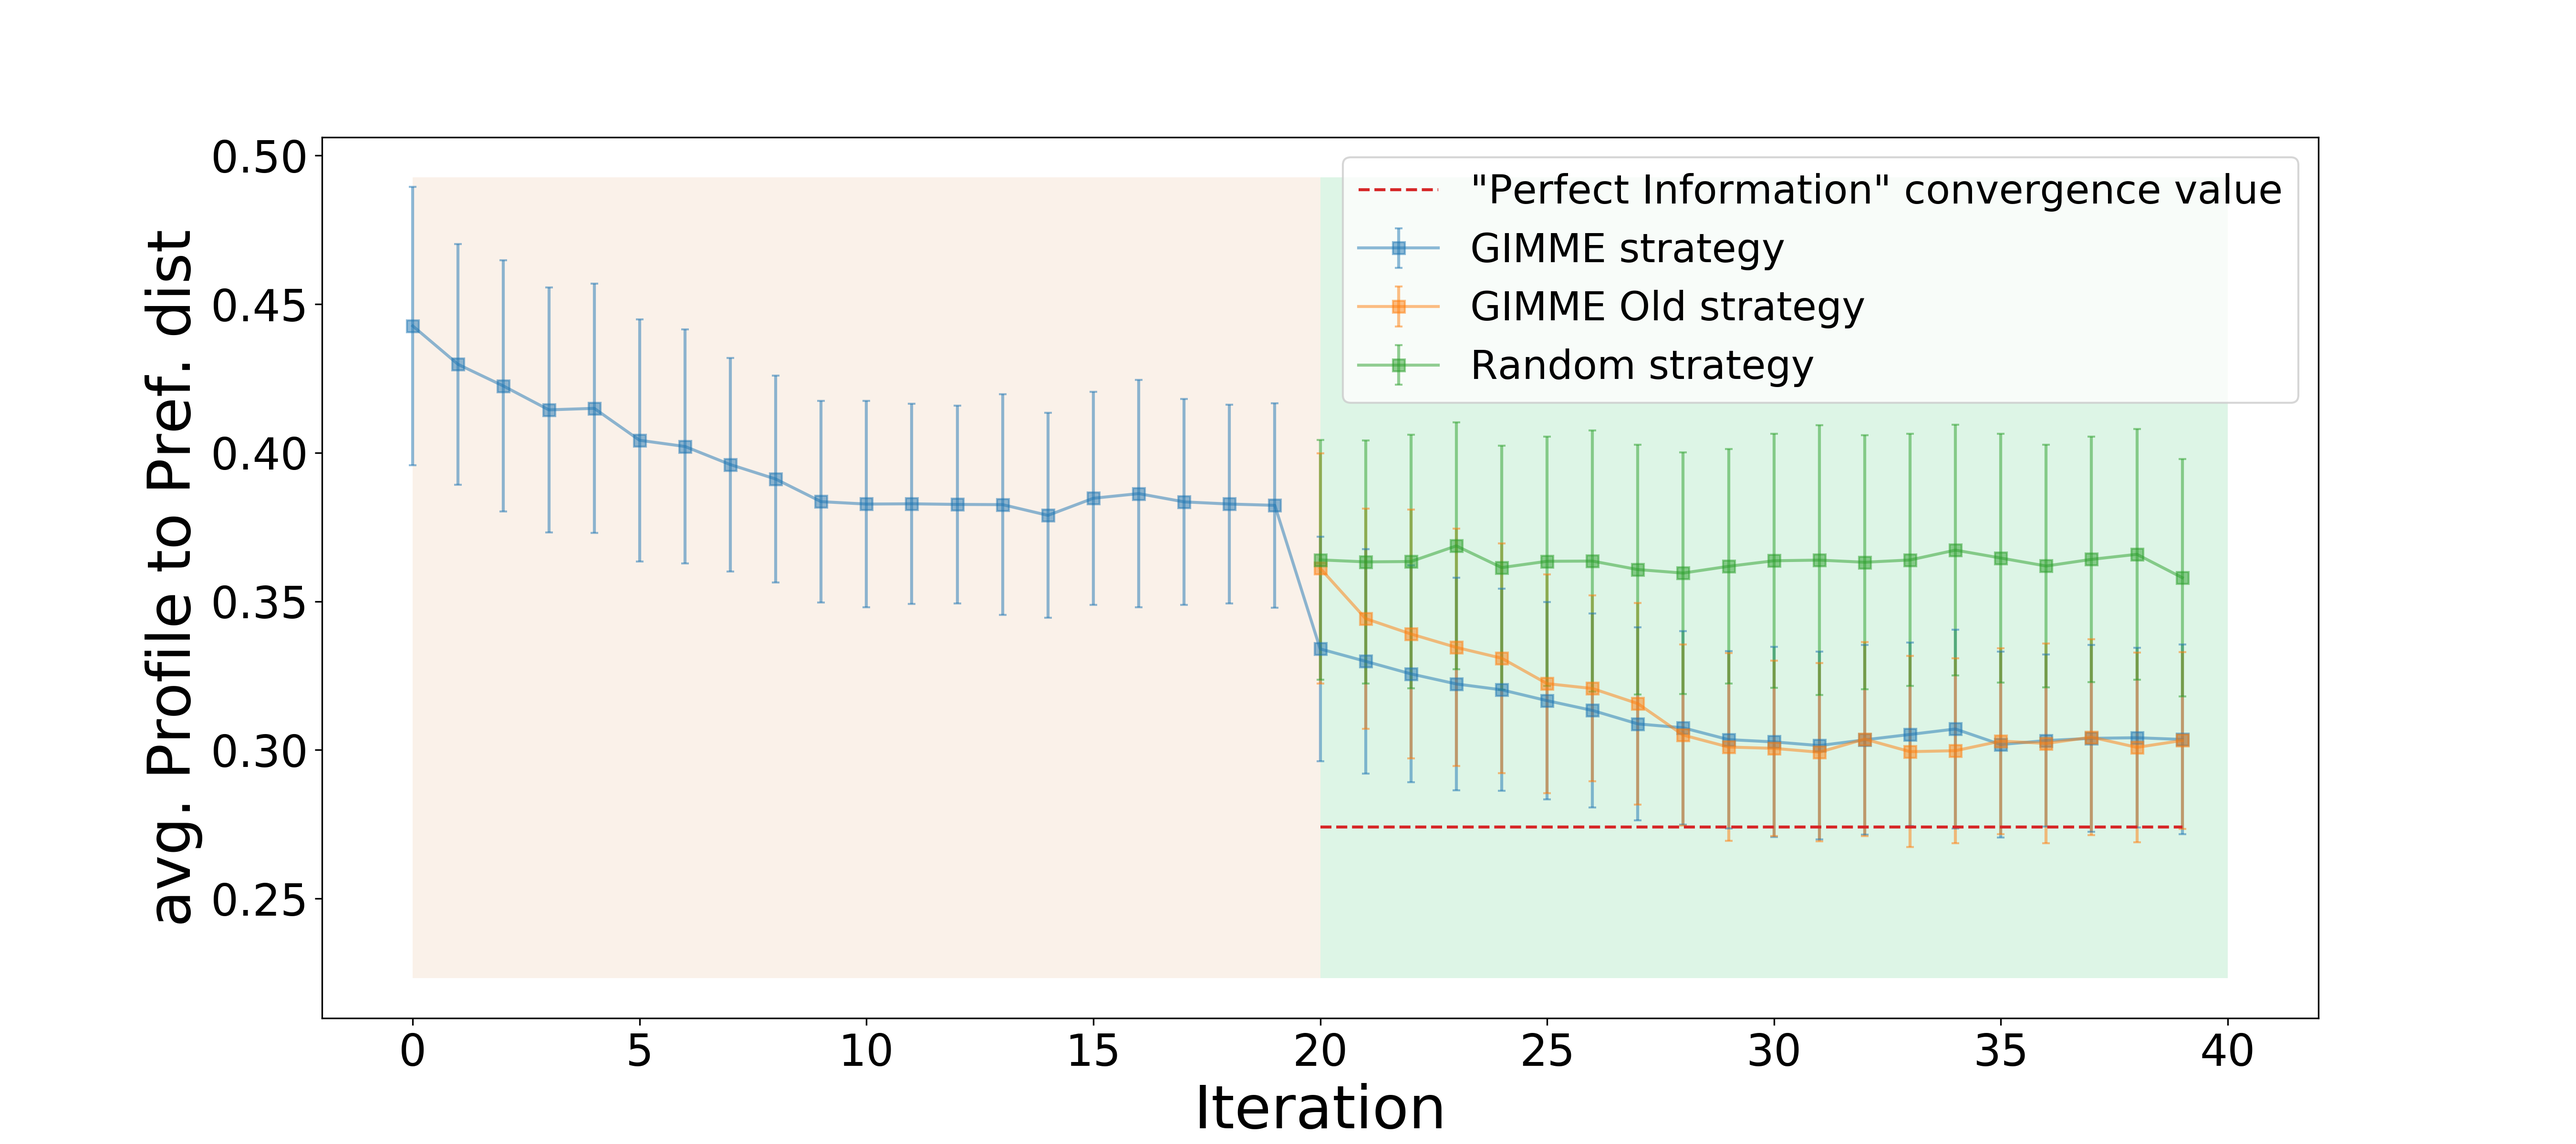
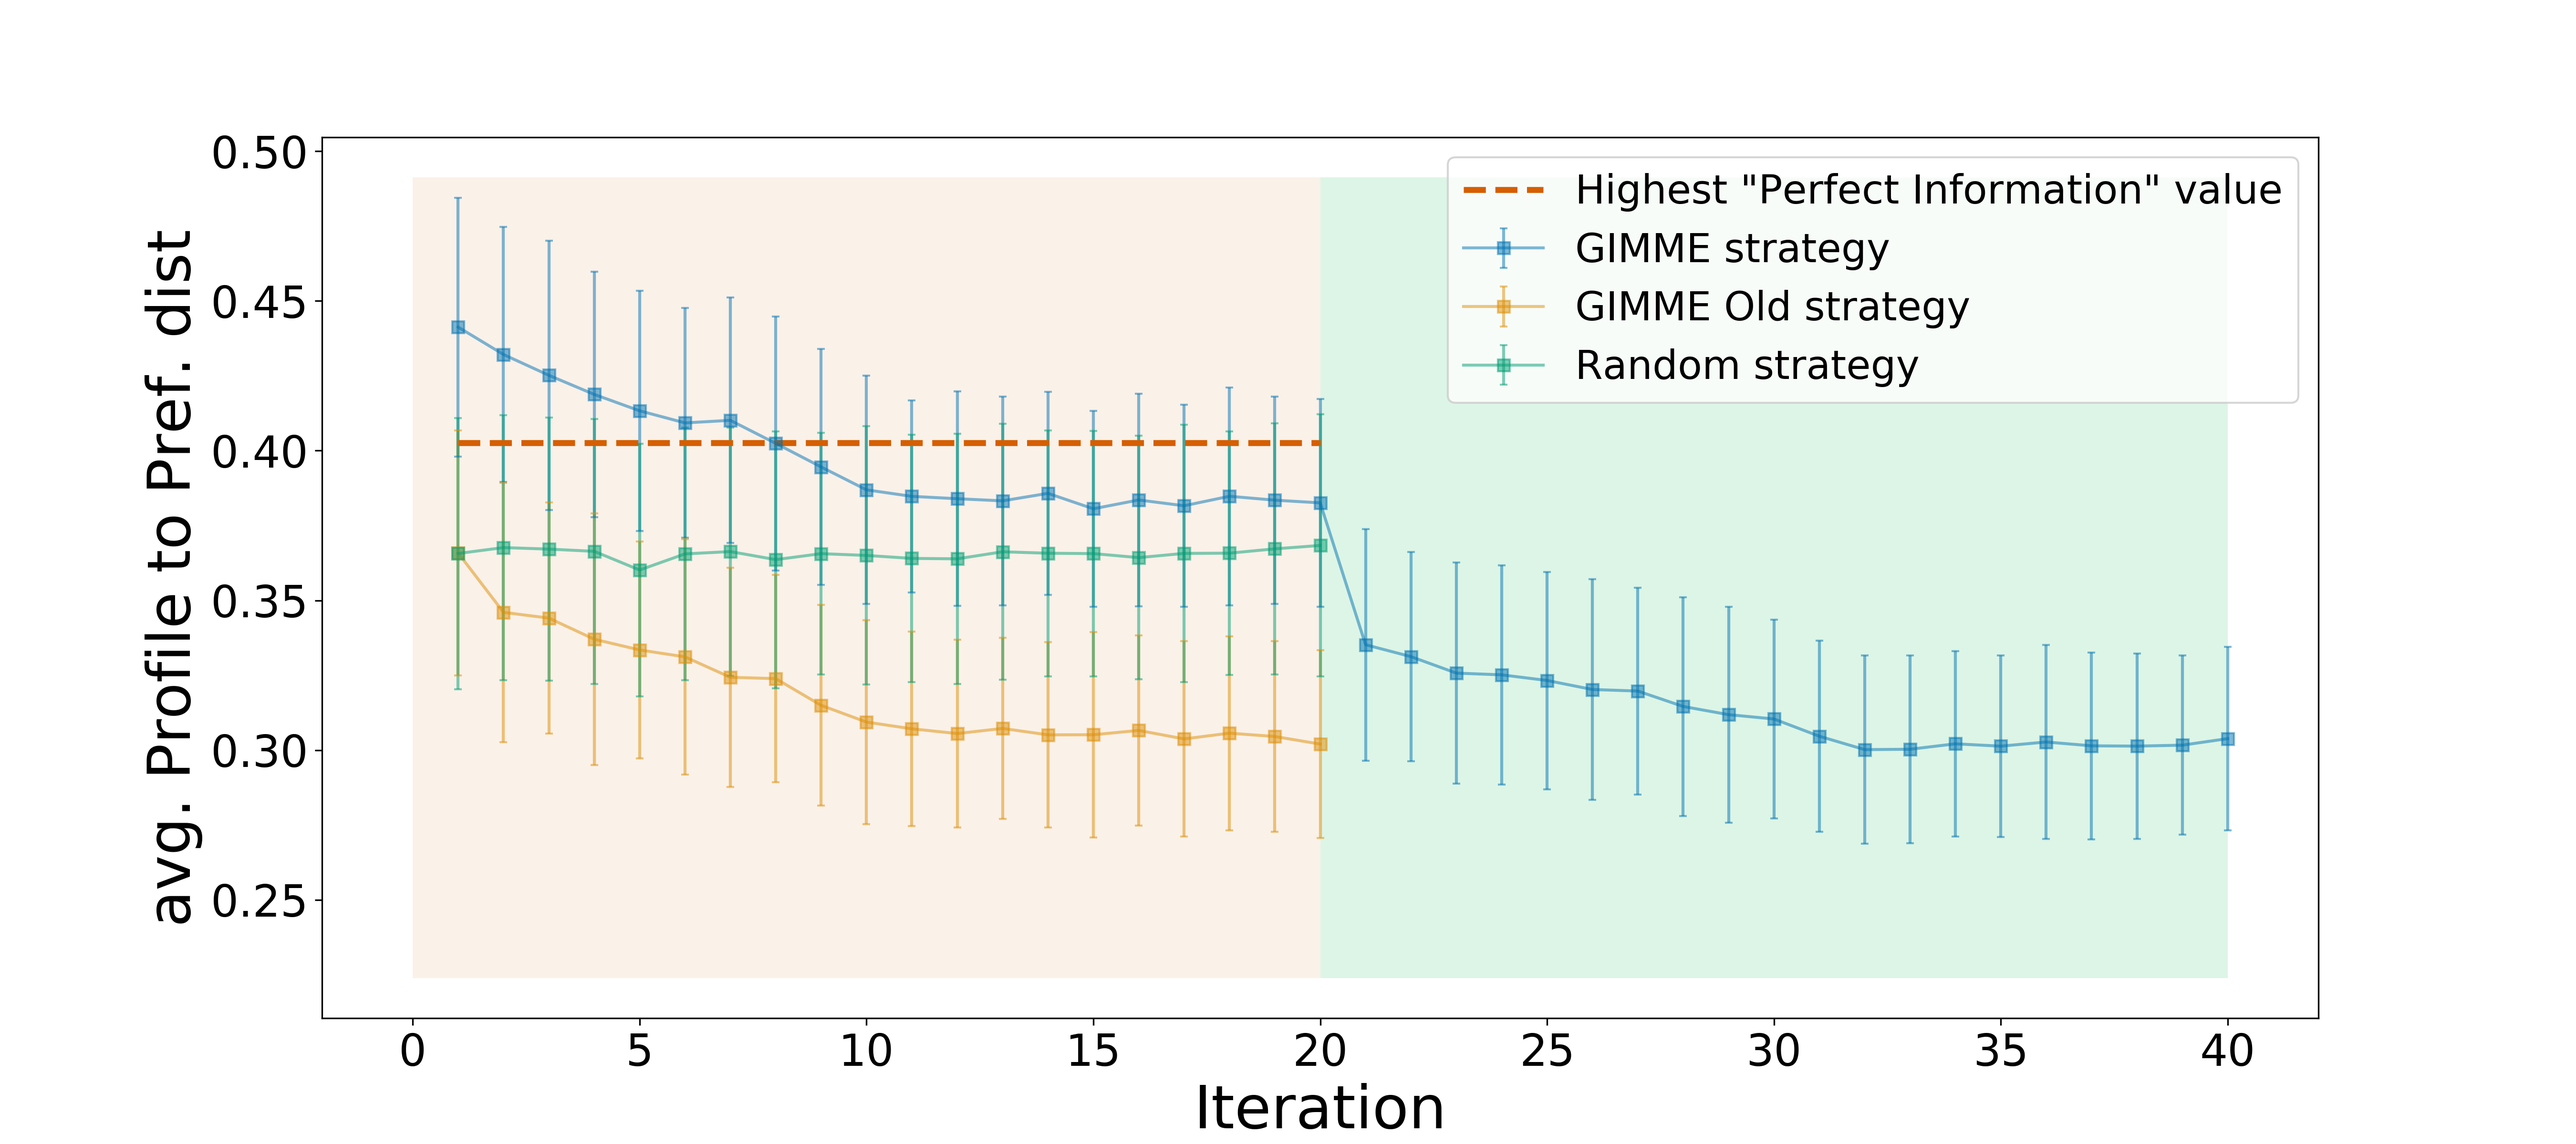
removed unused code and fixed plots only code.

diff --git a/examples/simulations.py b/examples/simulations.py
@@ -283,73 +283,15 @@ optimalExecTime = 0.0
 
 
 # ----------------------- [Execute Algorithms] ----------------------------
-executeSimulations(maxNumTrainingIterations, 0, numRealIterations, maxNumTrainingIterations, playerBridge, taskBridge, adaptationGIMME, GIMMEAbilityMeans, GIMMEAbilitySTDev, GIMMEEngagementMeans, GIMMEEngagementSTDev, GIMMEProfDiffMeans, GIMMEProfDiffSTDev, GIMMEExecTime, True,  2, 4)
+executeSimulations(maxNumTrainingIterations, 0, numRealIterations, maxNumTrainingIterations, playerBridge, taskBridge, adaptationGIMME, GIMMEAbilityMeans, GIMMEAbilitySTDev, GIMMEEngagementMeans, GIMMEEngagementSTDev, GIMMEProfDiffMeans, GIMMEProfDiffSTDev, GIMMEExecTime, True,  1, 4)
 adaptationGIMME.setName("GIMMEOld")
 executeSimulations(0, 0, numRealIterations, maxNumTrainingIterations, playerBridge, taskBridge, adaptationGIMME, GIMMEOldAbilityMeans, GIMMEOldAbilitySTDev, GIMMEOldEngagementMeans, GIMMEOldEngagementSTDev, GIMMEOldProfDiffMeans, GIMMEOldProfDiffSTDev, GIMMEOldExecTime, True,  2, 4)
 executeSimulations(maxNumTrainingIterations, 0, numRealIterations, maxNumTrainingIterations, playerBridge, taskBridge, adaptationOptimal, optimalAbilityMeans, optimalAbilitySTDev, optimalEngagementMeans, optimalEngagementSTDev, optimalProfDiffMeans, optimalProfDiffSTDev, optimalExecTime, True, 3, 4)
-executeSimulations(0, 0, numRealIterations, maxNumTrainingIterations, playerBridge, taskBridge, adaptationRandom, randomAbilityMeans, randomAbilitySTDev, randomEngagementMeans, randomEngagementSTDev, randomProfDiffMeans, randomProfDiffSTDev, randomExecTime, True,  1, 4)
+executeSimulations(0, 0, numRealIterations, maxNumTrainingIterations, playerBridge, taskBridge, adaptationRandom, randomAbilityMeans, randomAbilitySTDev, randomEngagementMeans, randomEngagementSTDev, randomProfDiffMeans, randomProfDiffSTDev, randomExecTime, True,  4, 4)
 # executeSimulations(maxNumTrainingIterations,numRealIterations, playerBridge, taskBridge, adaptationGIMMEEv, GIMMEEvAbilities, GIMMEEvEngagements, GIMMEEvPrefProfDiff, GIMMEEvGroupSizeFreqs, GIMMEEvConfigsSizeFreqs, GIMMEExecTime, "GIMME", "adaptationGIMME", True,  3, 4)
 # executeSimulations(maxNumTrainingIterations,numRealIterations, playerBridgeGrid, taskBridge, adaptationGIMMEGrid, GIMMEGridAbilityMean, GIMMEGridAbilitySTDev, GIMMEGridEngagementMean, GIMMEGridEngagementSTDev, GIMMEGridProfDiffMean, GIMMEGridProfDiffSTDev, GIMMEGridExecTime, True,  4, 4)
 
 
 
-# ----------------------- [Generate Plots] --------------------------------
-timesteps=[i for i in range(maxNumTrainingIterations + numRealIterations)]
-timestepsReal=[i+maxNumTrainingIterations for i in range(numRealIterations)]
-convValue=[1.0 for i in range(maxNumTrainingIterations + numRealIterations)]
-empConvValue=[optimalAbilityMeans[-1] for i in range(maxNumTrainingIterations + numRealIterations)]
-totalMin = min(min(randomAbilityMeans[maxNumTrainingIterations:]),min(GIMMEAbilityMeans),min(GIMMEOldAbilityMeans[maxNumTrainingIterations:]),min(optimalAbilityMeans[maxNumTrainingIterations:]))
-totalMax = max(max(randomAbilityMeans[maxNumTrainingIterations:]),max(GIMMEAbilityMeans),max(GIMMEOldAbilityMeans[maxNumTrainingIterations:]),max(optimalAbilityMeans[maxNumTrainingIterations:]))
-
-plt.rcParams.update({'font.size': 22})
-
-fig = plt.figure(num=None, figsize=(18, 8), dpi=100, facecolor='w', edgecolor='k')
-ax = fig.add_subplot(111)
-c1 = collections.BrokenBarHCollection([(0,maxNumTrainingIterations)], (totalMin-0.05,(totalMax-totalMin)+0.1), facecolor='#f7e4d4', alpha=0.5)
-c2 = collections.BrokenBarHCollection([(maxNumTrainingIterations,numRealIterations)], (totalMin-0.05,(totalMax-totalMin)+0.1), facecolor='#bdedcf', alpha=0.5)
-ax.add_collection(c1)
-ax.add_collection(c2)
-
-
-plt.errorbar(timesteps, GIMMEAbilityMeans, GIMMEAbilitySTDev, marker='s', capsize=2.0, alpha=0.5, label="GIMME strategy")
-plt.errorbar(timestepsReal, GIMMEOldAbilityMeans[maxNumTrainingIterations:], GIMMEOldAbilitySTDev[maxNumTrainingIterations:], marker='s', capsize=2.0, alpha=0.5, label="GIMME Old strategy")
-# plt.errorbar(timesteps, GIMMEGridAbilityMean, GIMMEGridAbilitySTDev, marker='s', capsize=2.0, alpha=0.5, label="GIMME Grid strategy")
-# plt.plot(timesteps, GIMMEEvAbilities, label="GIMME Ev strategy")
-plt.errorbar(timestepsReal, randomAbilityMeans[maxNumTrainingIterations:], randomAbilitySTDev[maxNumTrainingIterations:], marker='s', capsize=2.0, alpha=0.5, label="Random strategy")
-# plt.errorbar(timesteps, optimalAbilityMeans, optimalAbilitySTDev, marker='s', capsize=2.0, alpha=0.5, label="\"Perfect Information\" strategy")
-plt.plot(timestepsReal, empConvValue[maxNumTrainingIterations:], linestyle= "--", label="\"Perfect Information\" convergence value")
-plt.xlabel("Iteration", fontsize=30)
-plt.ylabel("avg. Ability Increase", fontsize=30)
-plt.legend(loc='best', fontsize=20)
-
-plt.savefig(newpath+'/charts/simulationsResultsAbility.png', dpi=300, figsize=(6,20))
-# plt.show()
-
-
-
-empConvValue=[optimalProfDiffMeans[-1] for i in range(maxNumTrainingIterations + numRealIterations)]
-
-fig = plt.figure(num=None, figsize=(18, 8), dpi=100, facecolor='w', edgecolor='k')
-ax = fig.add_subplot(111)
-totalMin = min(min(randomProfDiffMeans[maxNumTrainingIterations:]),min(GIMMEProfDiffMeans),min(GIMMEOldProfDiffMeans[maxNumTrainingIterations:]),min(optimalProfDiffMeans[maxNumTrainingIterations:]))
-totalMax = max(max(randomProfDiffMeans[maxNumTrainingIterations:]),max(GIMMEProfDiffMeans),max(GIMMEOldProfDiffMeans[maxNumTrainingIterations:]),max(optimalProfDiffMeans[maxNumTrainingIterations:]))
-c1 = collections.BrokenBarHCollection([(0,maxNumTrainingIterations)], (totalMin-0.05,(totalMax-totalMin)+0.1), facecolor='#f7e4d4', alpha=0.5)
-c2 = collections.BrokenBarHCollection([(maxNumTrainingIterations,numRealIterations)], (totalMin-0.05,(totalMax-totalMin)+0.1), facecolor='#bdedcf', alpha=0.5)
-ax.add_collection(c1)
-ax.add_collection(c2)
-
-
-plt.errorbar(timesteps, GIMMEProfDiffMeans, GIMMEProfDiffSTDev, marker='s', capsize=2.0, alpha=0.5, label="GIMME strategy")
-plt.errorbar(timestepsReal, GIMMEOldProfDiffMeans[maxNumTrainingIterations:], GIMMEOldProfDiffSTDev[maxNumTrainingIterations:], marker='s', capsize=2.0, alpha=0.5, label="GIMME Old strategy")
-# plt.errorbar(timesteps, GIMMEGridProfDiffMean, GIMMEGridProfDiffSTDev, marker='s', capsize=2.0, alpha=0.5, label="GIMME Grid strategy")
-plt.errorbar(timestepsReal, randomProfDiffMeans[maxNumTrainingIterations:], randomProfDiffSTDev[maxNumTrainingIterations:], marker='s', capsize=2.0, alpha=0.5, label="Random strategy")
-plt.plot(timestepsReal, empConvValue[maxNumTrainingIterations:], linestyle= "--", label="\"Perfect Information\" convergence value")
-plt.xlabel("Iteration", fontsize=30)
-plt.ylabel("avg. Profile to Pref. dist", fontsize=30)
-plt.legend(loc='best', fontsize=20)
-
-plt.savefig(newpath+'/charts/simulationsResultsProfileDist.png', dpi=300, figsize=(6,20))
-# plt.show()
-
-
-
+print("Done!                        ", end="\r")
+		

diff --git a/examples/plotsOnly.py b/examples/plotsOnly.py
@@ -41,19 +41,20 @@ sns.set_palette(sns.color_palette("colorblind"))
 timesteps=[i+1 for i in range(maxNumTrainingIterations + numRealIterations)]
 timestepsReal=[i+1 for i in range(numRealIterations)]
 convValue=[1.0 for i in range(maxNumTrainingIterations + numRealIterations)]
-empConvValue=[optimalAbilityMeans[-1] for i in range(maxNumTrainingIterations + numRealIterations)]
+empHighestValue=[max(optimalAbilityMeans) for i in range(maxNumTrainingIterations + numRealIterations)]
 totalMin = min(min(randomAbilityMeans[maxNumTrainingIterations:]),min(GIMMEAbilityMeans),min(GIMMEOldAbilityMeans[maxNumTrainingIterations:]),min(optimalAbilityMeans[maxNumTrainingIterations:]))
 totalMax = max(max(randomAbilityMeans[maxNumTrainingIterations:]),max(GIMMEAbilityMeans),max(GIMMEOldAbilityMeans[maxNumTrainingIterations:]),max(optimalAbilityMeans[maxNumTrainingIterations:]))
 
 plt.rcParams.update({'font.size': 22})
 
-fig = plt.figure(num=None, figsize=(18, 8), dpi=100, facecolor='w', edgecolor='k')
+fig = plt.figure(num=None, figsize=(20, 10), dpi=100, facecolor='w', edgecolor='k')
 ax = fig.add_subplot(111)
 c1 = collections.BrokenBarHCollection([(0,maxNumTrainingIterations)], (totalMin,(totalMax-totalMin)), facecolor="white", alpha=0.5)
 # c2 = collections.BrokenBarHCollection([(maxNumTrainingIterations,numRealIterations)], (totalMin-0.05,(totalMax-totalMin)+0.1), facecolor='#bdedcf', alpha=0.5)
 ax.add_collection(c1)
 # ax.add_collection(c2)
-plt.xticks(np.arange(1, numRealIterations+1, step=1.0))
+plt.xticks(np.arange(1, numRealIterations+1, step=1.0), fontsize=30)
+plt.yticks(fontsize=30)
 
 
 plt.errorbar(timestepsReal, GIMMEAbilityMeans[maxNumTrainingIterations:], GIMMEAbilitySTDev[maxNumTrainingIterations:], marker='s', capsize=5.0, alpha=0.5, linewidth=3, elinewidth=2, label="GIMME strategy (with training)")
@@ -62,38 +63,10 @@ plt.errorbar(timestepsReal, GIMMEOldAbilityMeans[maxNumTrainingIterations:], GIM
 # plt.plot(timesteps, GIMMEEvAbilities, label="GIMME Ev strategy")
 plt.errorbar(timestepsReal, randomAbilityMeans[maxNumTrainingIterations:], randomAbilitySTDev[maxNumTrainingIterations:], marker='s', capsize=5.0, alpha=0.5, linewidth=3, elinewidth=2, label="Random strategy")
 # plt.errorbar(timesteps, optimalAbilityMeans, optimalAbilitySTDev, marker='s', capsize=2.0, alpha=0.5, label="\"Perfect Information\" strategy")
-plt.plot(timestepsReal, empConvValue[maxNumTrainingIterations:], linestyle= "--", linewidth=3, label="\"Perfect Information\" convergence value")
-plt.xlabel("Iteration", fontsize=30)
-plt.ylabel("avg. Ability Increase", fontsize=30)
-plt.legend(loc='best', fontsize=20)
+plt.plot(timestepsReal, empHighestValue[maxNumTrainingIterations:], linestyle= "--", linewidth=3, label="Highest avg. \"Perfect Information\" increase")
+plt.xlabel("Iteration", fontsize=40)
+plt.ylabel("avg. Ability Increase", fontsize=40)
+plt.legend(loc='best', fontsize=29)
 
 plt.savefig('./plotsOnlyOutput/simulationsResultsAbility.png')
 plt.show()
-
-quit()
-
-empConvValue=[optimalProfDiffMeans[-1] for i in range(maxNumTrainingIterations + numRealIterations)]
-
-fig = plt.figure(num=None, figsize=(18, 8), dpi=100, facecolor='w', edgecolor='k')
-ax = fig.add_subplot(111)
-totalMin = min(min(randomProfDiffMeans[maxNumTrainingIterations:]),min(GIMMEProfDiffMeans),min(GIMMEOldProfDiffMeans[maxNumTrainingIterations:]),min(optimalProfDiffMeans[maxNumTrainingIterations:]))
-totalMax = max(max(randomProfDiffMeans[maxNumTrainingIterations:]),max(GIMMEProfDiffMeans),max(GIMMEOldProfDiffMeans[maxNumTrainingIterations:]),max(optimalProfDiffMeans[maxNumTrainingIterations:]))
-c1 = collections.BrokenBarHCollection([(0,maxNumTrainingIterations)], (totalMin-0.05,(totalMax-totalMin)+0.1), facecolor='#f7e4d4', alpha=0.5)
-c2 = collections.BrokenBarHCollection([(maxNumTrainingIterations,numRealIterations)], (totalMin-0.05,(totalMax-totalMin)+0.1), facecolor='#bdedcf', alpha=0.5)
-ax.add_collection(c1)
-ax.add_collection(c2)
-
-
-plt.errorbar(timesteps, GIMMEProfDiffMeans, GIMMEProfDiffSTDev, marker='s', capsize=2.0, alpha=0.5, label="GIMME strategy")
-plt.errorbar(timestepsReal, GIMMEOldProfDiffMeans[maxNumTrainingIterations:], GIMMEOldProfDiffSTDev[maxNumTrainingIterations:], marker='s', capsize=2.0, alpha=0.5,label="GIMME Old strategy")
-# plt.errorbar(timesteps, GIMMEGridProfDiffMean, GIMMEGridProfDiffSTDev, marker='s', capsize=2.0, alpha=0.5, label="GIMME Grid strategy")
-plt.errorbar(timestepsReal, randomProfDiffMeans[maxNumTrainingIterations:], randomProfDiffSTDev[maxNumTrainingIterations:], marker='s', capsize=2.0, alpha=0.5, label="Random strategy")
-plt.plot(timestepsReal, empConvValue[maxNumTrainingIterations:], linestyle= "--", label="\"Perfect Information\" convergence value")
-plt.xlabel("Iteration", fontsize=30)
-plt.ylabel("avg. Profile to Pref. dist", fontsize=30)
-plt.legend(loc='best', fontsize=20)
-
-plt.savefig('./plotsOnlyOutput/simulationsResultsProfileDist.png', dpi=300, figsize=(6,20))
-plt.show()
-
-
